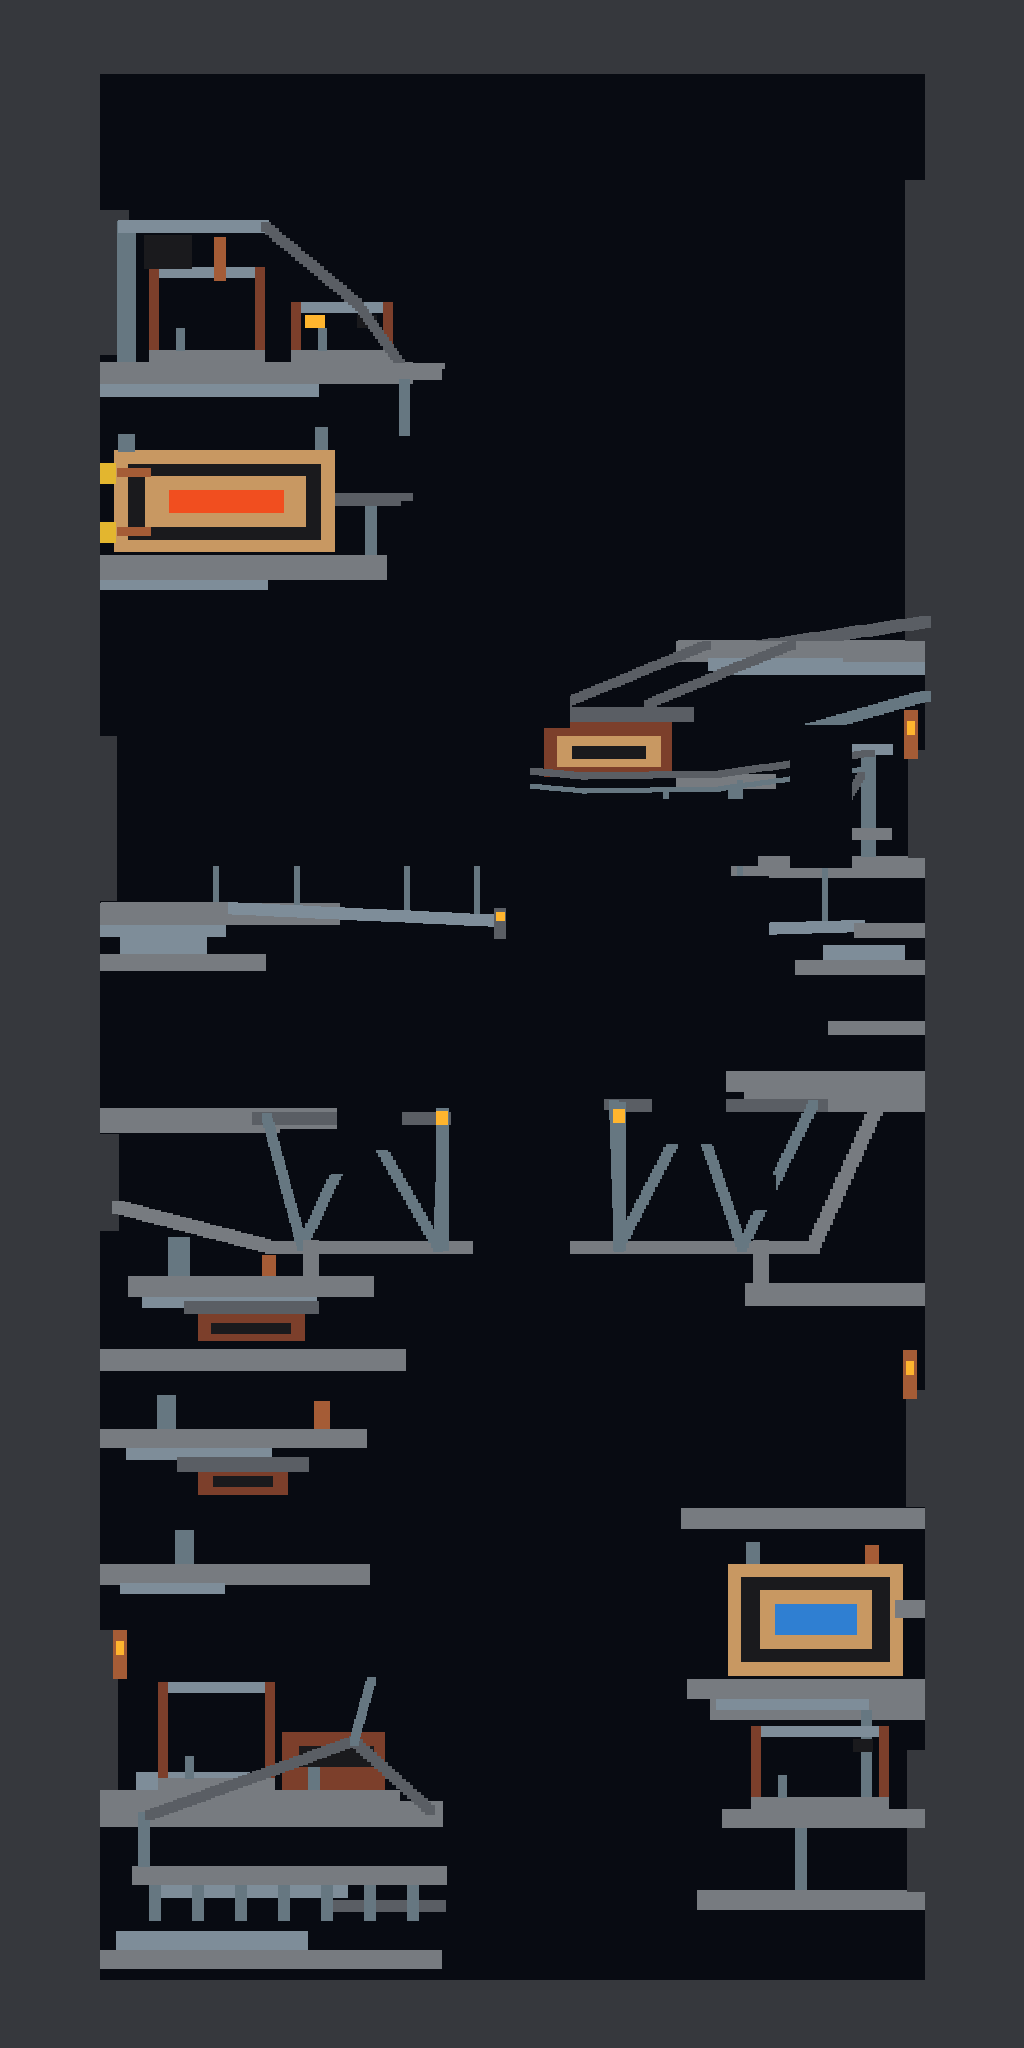
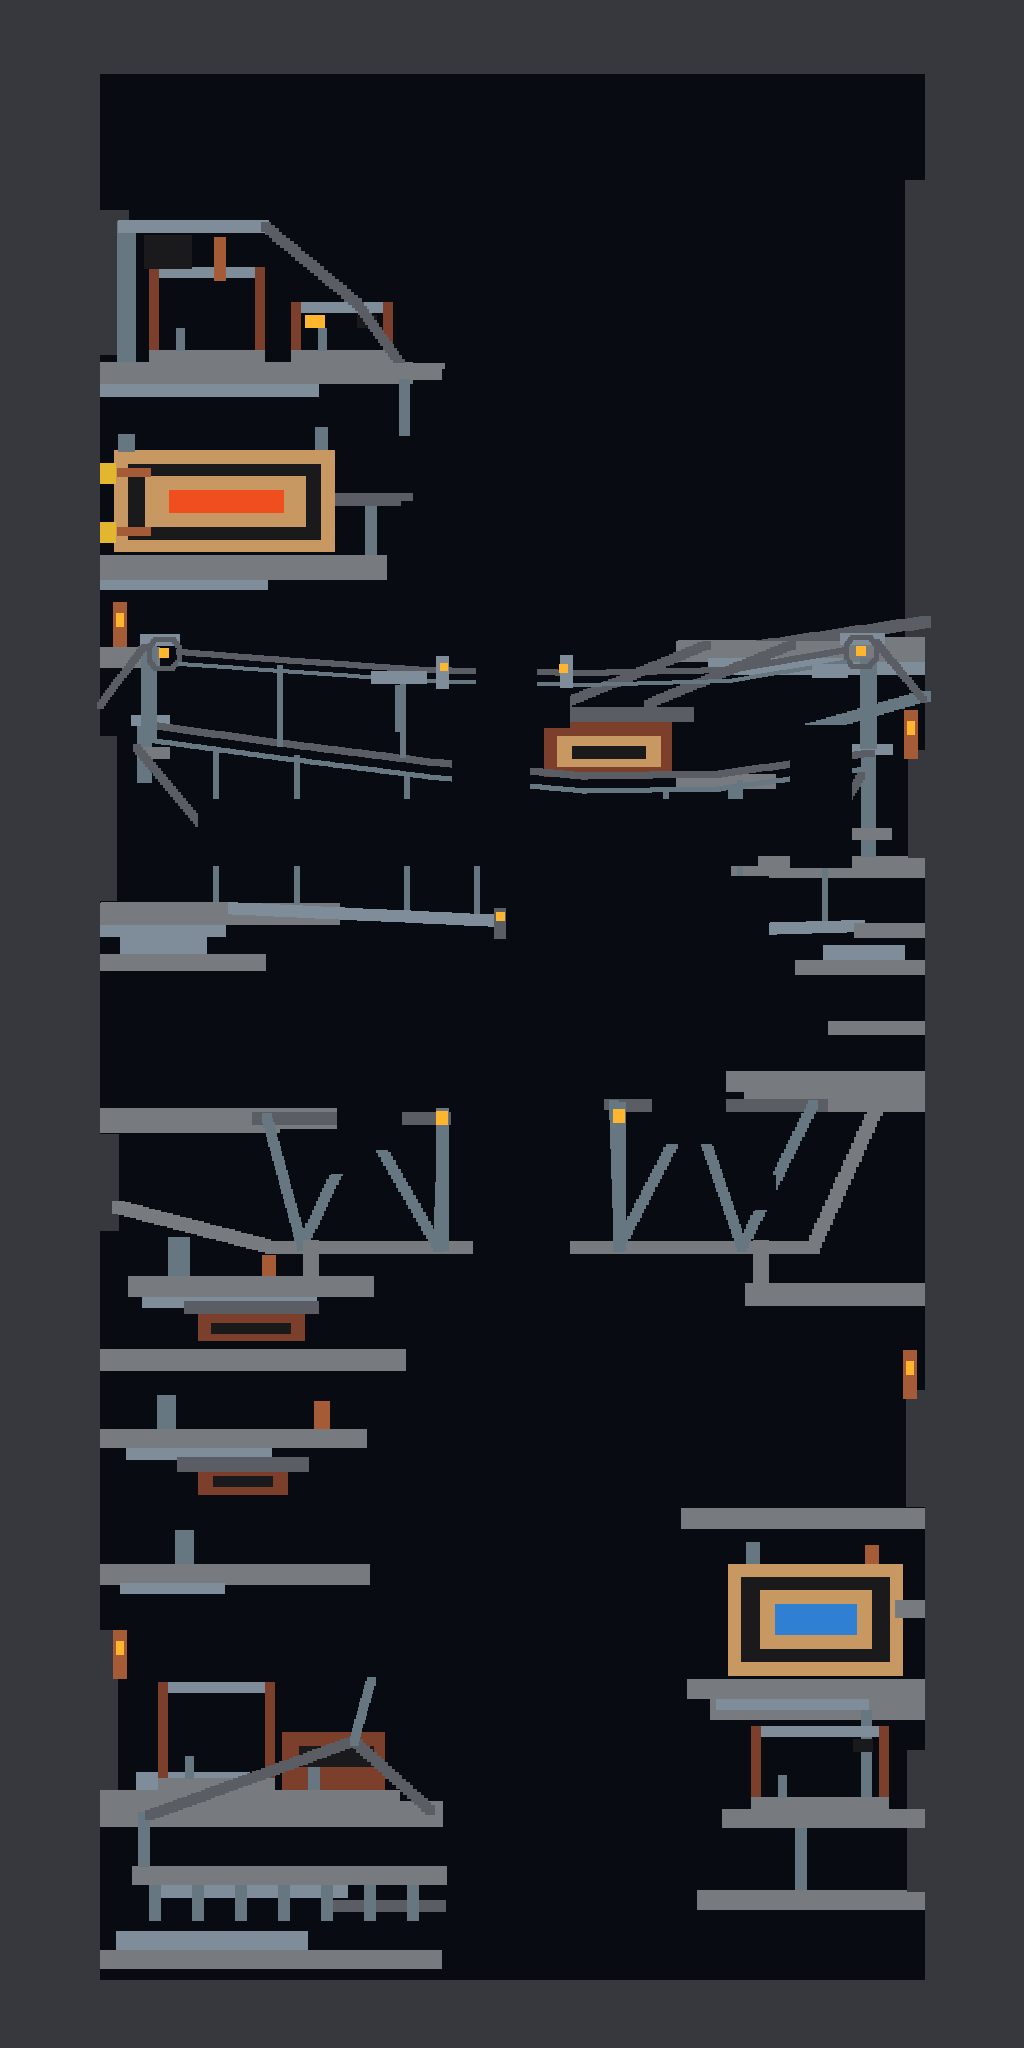
R6 Spindlebreak: couple high cable pulleys and retain Midge sky aperture

Changed region(s): [[0.0938, 0.2812, 0.4688, 0.4062], [0.5312, 0.3125, 0.9062, 0.375]]

diff --git a/cybersand-canvases/1024x2048/portrait-moderate-spindlebreak-switchback-trestleworks-261121/README.md b/cybersand-canvases/1024x2048/portrait-moderate-spindlebreak-switchback-trestleworks-261121/README.md
@@ -1,6 +1,6 @@
 # Spindlebreak Switchback Trestleworks — R6 bounded portrait repair
 
-**OPEN Draft/HOLD · source-static builder/differential tests PASS · independent repaired-HEAD Art and Technical reviews PENDING · NATIVE-UNTESTED.**
+**OPEN Draft/HOLD · source-static builder/differential tests PASS · first-child independent Art REWORK; second-pass Art/Technical review PENDING · NATIVE-UNTESTED.**
 
[1 lines of base64/hex data omitted]
 
@@ -15,25 +15,25 @@ R6 strengthens the high bank-to-bank *tension* grammar with two taut wire tracks
 | Test | R6 generated result |
 |---|---|
 | Material grid | 1024×2048 = 2,097,152 cells |
[1 lines of base64/hex data omitted]
-| Ordered disjoint Setup-v2 rectangles | 1330 / 32,768 |
-| Setup size | 26135 / 1,048,576 bytes |
-| Material construction cells | 840248 |
-| Rooted final stationary solids / detached | 835061/835061 / 0 |
[1 lines of base64/hex data omitted]
+| Ordered disjoint Setup-v2 rectangles | 1854 / 32,768 |
+| Setup size | 35692 / 1,048,576 bytes |
+| Material construction cells | 858895 |
+| Rooted final stationary solids / detached | 853708/853708 / 0 |
 | Contained Water / Lava | 2542/2645; exposed 0, contacts 0 |
 | Exact named Midge 19×15, 23×19, 31×27 | 21 / 21 / 21 of 21 per hull |
 | Obstruction retaining all 31×27 sites | 21/21; rectangle [440,1010,125,67] |
 | Crown→lower landing direct→obstructed shortest | 187→337 steps |
-| New **ordered high cable/deck portal route** | 559 steps across 4 explicit 31×27 legs |
+| New **ordered high cable/deck portal route** | 583 steps across 4 explicit 31×27 legs |
 | New **ordered lower truss/bearing portal route** | 923 steps across 5 explicit 31×27 legs |
-| Source-pixel PNG parity | 3518802 checked pixels, zero generator mismatches |
+| Source-pixel PNG parity | 3621927 checked pixels, zero generator mismatches |
 | Native Godot/Workbench/Rapier, dynamic movement and save/reopen | **NOT RUN / NATIVE-UNTESTED** |
 
 **Precise portal evidence:** `receipt.json.portal_routes` names all literal coordinates, ordered segment lengths, and requires true 31×27 free-centre BFS for each leg. High witness: west launch [345,799] → cable gap [488,800] → deck opening [565,915] → receiving slot [735,902] → east arrival [773,904]. Low witness: west footing [327,1156] → western bearing [370,1118] → central switchback [505,1170] → lower chord hatch [520,1252] → eastern bearing [690,1105] → east footing [756,1192]. This proves a *possible explicit route through named apertures*. It **does not** claim unconstrained shortest paths naturally select them, successful scripted transport, live gameplay, or independent reviewer acceptance.
 
 ## Exact reproducibility and gallery
 
-Run `node build.cjs OUTPUT_DIR` to regenerate committed `setup.json`, `receipt.json`, the actual 1024×2048 indexed material `overview.png` and six authentic source-cell 1:1 crops. `node verify.cjs` should confirm byte equality against all nine output artifacts. Both existing crossing gallery crops **include left and right supports**: `03-high-cableway.png` exact [100,735,825,260] and `04-lower-trestle.png` exact [100,1000,825,280]. Machine and other gallery crops are regenerated at unchanged exact coordinates. PNG internal CRC/zlib and source-pixel parity are audited in builder. Authenticated host-side native runtime, third-party Art judgement, and separate post-publication binary readback remain outstanding.
+Run `node build.cjs OUTPUT_DIR` to regenerate committed `setup.json`, `receipt.json`, the actual 1024×2048 indexed material `overview.png` and six authentic source-cell 1:1 crops. `node verify.cjs` should confirm byte equality against all nine output artifacts. Both existing crossing gallery crops **include left and right supports**: `03-high-cableway.png` exact [100,610,825,385] and `04-lower-trestle.png` exact [100,1000,825,280]. Machine and other gallery crops are regenerated at unchanged exact coordinates. PNG internal CRC/zlib and source-pixel parity are audited in builder. New-child independent Art/Technical verdicts, native runtime, and separate post-publication binary readback remain outstanding.
 
 ## Independent review requested
 
@@ -42,3 +42,9 @@ Run `node build.cjs OUTPUT_DIR` to regenerate committed `setup.json`, `receipt.j
 3. **Feature Atlas:** record the baseline failure under [FEATURE-ATLAS-001 #200](https://github.com/techrote/sandmapsreference/issues/200) and a *separate* after-state linked to exact child HEAD, without treating this author receipt as independent PASS.
 
 Neither the parent portrait PR, donor, accepted engine/main, sibling repair lanes nor existing Atlas branch were edited. No merge or Ready promotion is authorised.
+
+## Second-pass response to independent Art REWORK (current candidate)
+
+[Independent first repaired-HEAD Art REWORK](https://github.com/techrote/sandmapsreference/pull/207#issuecomment-7069842512) confirmed that the original R6 lower truss was markedly improved but that the high crossing's western platform, under-ladle tension strips and east receiver still read as separate motifs. This second pass introduces visible opposed-bank octagonal pulley/sheave heads, bank-rooted return anchors/backstays, parallel overhead haul lines and sender/receiver brackets, with an intentionally **61-cell-wide open exchange seam** at X476–536, Y629–711. The high 1:1 crop was extended upward to XYWH [100,610,825,385] so both actual pulley heads, source-cell tension geometry, transfer deck and banks appear together. No material/image overlays were used. Geometry below y~750, the distinct lower-truss structure, all genuine fault voids, and unchanged 1:1 lower-truss crop remain protected.
+
+**Exact parent→second-repair delta** relative to first repair commit `077777751d8757b127e95e028404b1cb2067f2b0`: 21353 changed material cells inside inclusive bounding box [97,602,926,826]. Old Art REWORK remains historically valid for its exact first-child HEAD. This second candidate is **not** independently Art/Technical accepted. Ordered high portal route remains feasible but its length changed to 583 steps; the 923-step lower portal chain is unchanged. Neither path claims to be the autonomous preferred shortest path.
